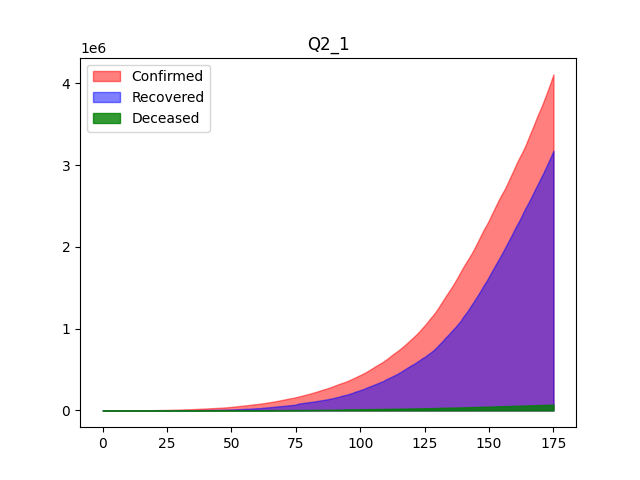
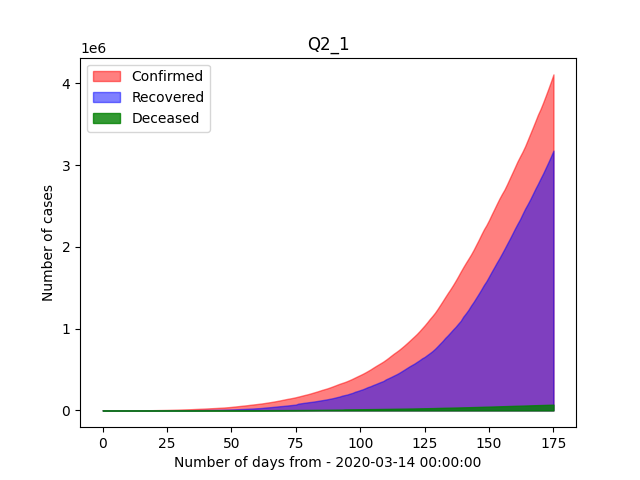
Improved

Changed region(s): [[0.2812, 0.9375, 0.5, 1.0], [0.0625, 0.375, 0.0938, 0.625], [0.5312, 0.9375, 0.75, 0.9688]]

diff --git a/Assn1.py b/Assn1.py
@@ -27,7 +27,6 @@ def string_date_to_standard_date1(date):
         exit(1)
 
 
-
 def string_date_to_standard_date2(date):
     '''
     Args:
@@ -110,7 +109,6 @@ def change_col_pos(df, cols):
     for idx, col_name in enumerate(cols):
         col = df.pop(col_name)
         df.insert(idx, col_name, col)
-
 
 
 def str_to_int(x):
@@ -339,21 +337,14 @@ def Q1_7(json_file_path, start_date, end_date):
             confirmed_cumulative_sum[state] -
             recovered_cumulative_sum[state] -
             deceased_cumulative_sum[state])
-    print()  
+    print()
+
 
 def getXY(df, start_date, states):
     X = (df['date'] - start_date).to_list()
     X = [i.days for i in X]
-    Y = []
-    for ind in df.index: 
-        c = 0
-        for j in states:
-            c += df[j][ind]
-        Y.append(c)
-    _Y = [Y[0]]
-    for i in range(1, len(Y)):
-        _Y.append(_Y[-1] + Y[i])
-    return X, _Y
+    Y = df[states].sum(axis=1).cumsum().tolist()
+    return X, Y
 
 
 def Q2_1(json_file_path, start_date, end_date):
@@ -363,29 +354,47 @@ def Q2_1(json_file_path, start_date, end_date):
         start_date (TYPE): Description
         end_date (TYPE): Description
     """
-
     confirmed_df, recovered_df, deceased_df = pre_process_data(
         json_file_path, start_date, end_date)
+
     start_date = string_date_to_standard_date1(start_date)
     end_date = string_date_to_standard_date1(end_date)
+
     confirmed_X, confirmed_Y = getXY(confirmed_df, start_date, states + uts)
     recovered_X, recovered_Y = getXY(recovered_df, start_date, states + uts)
     deceased_X, deceased_Y = getXY(deceased_df, start_date, states + uts)
 
     name = "Q2_1"
     plt.title(name)
-    plt.fill_between(confirmed_X, 0, confirmed_Y,alpha=0.5 ,color='red', label="Confirmed")
-    plt.fill_between(recovered_X, 0, recovered_Y, alpha=0.5,color='blue', label="Recovered")
-    plt.fill_between(deceased_X, 0, deceased_Y, color='green', label="Deceased",alpha=0.8)
+    plt.xlabel("Number of days from - " + str(start_date))
+    plt.ylabel("Number of cases")
+    plt.fill_between(
+        confirmed_X,
+        0,
+        confirmed_Y,
+        alpha=0.5,
+        color='red',
+        label="Confirmed")
+    plt.fill_between(
+        recovered_X,
+        0,
+        recovered_Y,
+        alpha=0.5,
+        color='blue',
+        label="Recovered")
+    plt.fill_between(
+        deceased_X,
+        0,
+        deceased_Y,
+        alpha=0.8,
+        color='green',
+        label="Deceased")
 
     plt.legend(loc=2)
-    plt.savefig(name, dpi=100)
+    plt.savefig(name)
     plt.show()
     plt.close(plt.figure())
     plt.clf()
-
-    # plt.show()
-    # plt.save()
 
 
 def Q2_2(json_file_path, start_date, end_date):
@@ -399,23 +408,42 @@ def Q2_2(json_file_path, start_date, end_date):
         json_file_path, start_date, end_date)
     start_date = string_date_to_standard_date1(start_date)
     end_date = string_date_to_standard_date1(end_date)
+
     confirmed_X, confirmed_Y = getXY(confirmed_df, start_date, ['dl'])
     recovered_X, recovered_Y = getXY(recovered_df, start_date, ['dl'])
     deceased_X, deceased_Y = getXY(deceased_df, start_date, ['dl'])
 
     name = "Q2_2"
     plt.title(name)
-    plt.fill_between(confirmed_X, 0, confirmed_Y, color='red', label="Confirmed", alpha=0.5)
-    plt.fill_between(recovered_X, 0, recovered_Y, color='blue', label="Recovered", alpha=0.5)
-    plt.fill_between(deceased_X, 0, deceased_Y, color='green', label="Deceased", alpha=0.8)
+    plt.xlabel("Number of days from - " + str(start_date))
+    plt.ylabel("Number of cases")
+    plt.fill_between(
+        confirmed_X,
+        0,
+        confirmed_Y,
+        color='red',
+        label="Confirmed",
+        alpha=0.5)
+    plt.fill_between(
+        recovered_X,
+        0,
+        recovered_Y,
+        color='blue',
+        label="Recovered",
+        alpha=0.5)
+    plt.fill_between(
+        deceased_X,
+        0,
+        deceased_Y,
+        color='green',
+        label="Deceased",
+        alpha=0.8)
 
     plt.legend(loc=2)
-    plt.savefig(name, dpi=100)
+    plt.savefig(name)
     plt.show()
     plt.close(plt.figure())
     plt.clf()
-    # plt.show()
-    # plt.save()
 
 
 def Q2_3(json_file_path, start_date, end_date):
@@ -429,10 +457,10 @@ def Q2_3(json_file_path, start_date, end_date):
         json_file_path, start_date, end_date)
     start_date = string_date_to_standard_date1(start_date)
     end_date = string_date_to_standard_date1(end_date)
+
     confirmed_X, confirmed_Y = getXY(confirmed_df, start_date, states + uts)
     recovered_X, recovered_Y = getXY(recovered_df, start_date, states + uts)
     deceased_X, deceased_Y = getXY(deceased_df, start_date, states + uts)
-
     active_X, active_Y = confirmed_X, []
 
     for i in range(len(active_X)):
@@ -440,16 +468,20 @@ def Q2_3(json_file_path, start_date, end_date):
 
     name = "Q2_3"
     plt.title(name)
-    plt.fill_between(active_X, 0, active_Y, color='red', label="Active", alpha=0.5)
-    
+    plt.xlabel("Number of days from - " + str(start_date))
+    plt.ylabel("Number of cases")
+    plt.fill_between(
+        active_X,
+        0,
+        active_Y,
+        color='red',
+        label="Active",
+        alpha=0.5)
     plt.legend(loc=2)
-
-    plt.savefig(name, dpi=100)
+    plt.savefig(name)
     plt.show()
     plt.close(plt.figure())
     plt.clf()
-    # plt.show()
-    # plt.save()
 
 
 def Q3(json_file_path, start_date, end_date):
@@ -482,7 +514,8 @@ def Q3(json_file_path, start_date, end_date):
         sum_sq_X = sum([x * x for x in X])
         sum_sq_Y = sum([y * y for y in Y])
         sum_XY = sum([x * y for x, y in zip(X, Y)])
-        intercept = (sum_Y * sum_sq_X - sum_X * sum_XY) / (n * sum_sq_X - sum_X**2)
+        intercept = (sum_Y * sum_sq_X - sum_X * sum_XY) / \
+            (n * sum_sq_X - sum_X**2)
         slope = (n * sum_XY - sum_X * sum_Y) / (n * sum_sq_X - sum_X**2)
         return intercept, slope
 
@@ -502,14 +535,14 @@ def Q3(json_file_path, start_date, end_date):
         x_vals = np.array(axes.get_xlim())
         y_vals = intercept + slope * x_vals
         plt.plot(x_vals, y_vals, color='red')
-        plt.savefig(name, dpi=100)
-        # plt.show()
+        plt.savefig(name)
+        plt.show()
         plt.close(plt.figure())
         plt.clf()
 
-    # plot(confirmed_X, confirmed_Y, confirmed_slope, confirmed_intercept, "confirmed_Q3")
-    # plot(recovered_X, recovered_Y, recovered_slope, recovered_intercept, "recovered_Q3")
-    # plot(deceased_X, deceased_Y, deceased_slope, deceased_intercept, "deceased_Q3")
+    plot(confirmed_X, confirmed_Y, confirmed_slope, confirmed_intercept, "confirmed_Q3")
+    plot(recovered_X, recovered_Y, recovered_slope, recovered_intercept, "recovered_Q3")
+    plot(deceased_X, deceased_Y, deceased_slope, deceased_intercept, "deceased_Q3")
 
     print('\nQ3 :-\n')
     print(
